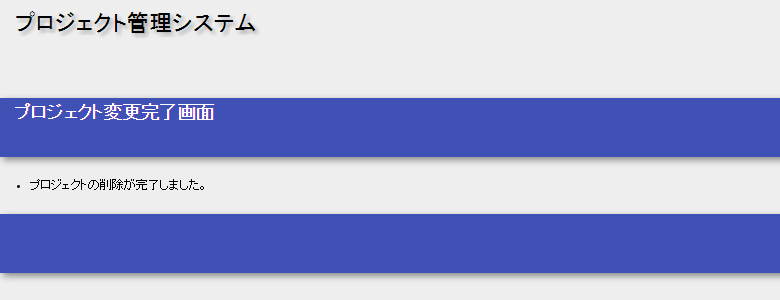
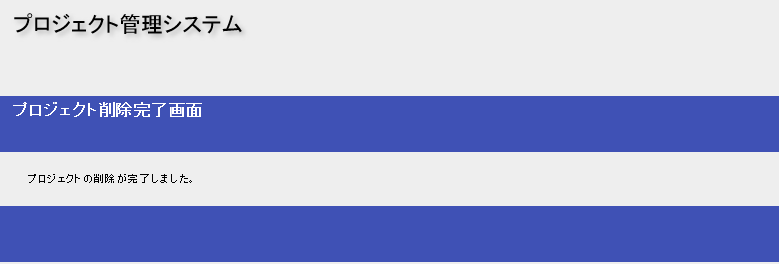
完了メッセージの表示方法の変更に伴い、GettingStarted修正
NAB-142

diff --git a/application_framework/application_framework/web/getting_started/project_update/index.rst b/application_framework/application_framework/web/getting_started/project_update/index.rst
@@ -318,37 +318,21 @@ Exampleアプリケーションを元に更新機能の解説を行う。
   .. _`project_update-create_complete_action`:
 
   完了画面を表示する業務アクションメソッドの作成
-    更新メソッドのリダイレクト先となる、完了メッセージの追加と完了画面の表示を行う業務アクションメソッドを作成する。
+    更新メソッドのリダイレクト先となる、完了画面の表示を行う業務アクションメソッドを作成する。
 
     ProjectAction.java
       .. code-block:: java
 
         public HttpResponse completeOfUpdate(HttpRequest request, ExecutionContext context) {
-            WebUtil.notifyMessages(context,
-                    MessageUtil.createMessage(MessageLevel.INFO, "success.update.project"));
-            return new HttpResponse("/WEB-INF/view/project/completeOfChange.jsp");
+            return new HttpResponse("/WEB-INF/view/project/completeOfUpdate.jsp");
         }
-
-    メッセージファイルに完了メッセージを追加
-      messages.properties
-        .. code-block:: jproperties
-
-          success.update.project=プロジェクトの更新が完了しました。
-
-  この実装のポイント
-    * メッセージは :ref:`メッセージ管理<message>` を用いてプロパティファイルから読み込む。
-    * 削除完了時と更新完了時に表示する画面は同一なので、出力するメッセージを出し分ける
-      :java:extdoc:`WebUtil#notifyMessages <nablarch.common.web.WebUtil.notifyMessages(nablarch.fw.ExecutionContext, nablarch.core.message.Message...)>` を用いる。
-    * 画面表示時のスタイルを切り替えるために、
-      :java:extdoc:`MessageUtil#createMessage <nablarch.core.message.MessageUtil.createMessage(nablarch.core.message.MessageLevel, java.lang.String, java.lang.Object...)>` を用いて
-      :ref:`メッセージのレベルを使い分ける<message-level>` 。
 
 .. _`project_update-create_success_jsp`:
 
 更新完了画面の作成
-  更新完了メッセージが挿入された完了画面作成する。
+  更新完了画面を作成する。
 
-  /src/main/webapp/WEB-INF/view/project/completeOfChange.jsp
+  /src/main/webapp/WEB-INF/view/project/completeOfUpdate.jsp
     .. code-block:: jsp
 
       <n:form>
@@ -358,14 +342,11 @@ Exampleアプリケーションを元に更新機能の解説を行う。
                 <!-- 省略 -->
               </div>
           </div>
-          <div class="message-area">
-              <n:errors errorCss="message-error" infoCss="message-info"/>
+          <div class="message-area message-info">
+              プロジェクトの更新が完了しました。
           </div>
           <!-- 省略 -->
       </n:form>
-
-  この実装のポイント
-    * メッセージを表示するには :ref:`tag-errors_tag` を使用する。
 
 更新機能の解説は以上。
 

diff --git a/application_framework/application_framework/web/getting_started/project_delete/index.rst b/application_framework/application_framework/web/getting_started/project_delete/index.rst
@@ -70,7 +70,7 @@ Exampleアプリケーションを元に削除機能の解説を行う。
 .. _`project_delete-complete`:
 
 削除完了画面の作成
-  削除完了を通知するメッセージを設定して、完了画面を表示する。
+  削除完了画面を表示する。
   完了画面の作成に関する説明は、 :ref:`完了画面を表示する業務アクションメソッドの作成<project_update-create_complete_action>` 及び
   :ref:`更新完了画面の作成<project_update-create_success_jsp>` を参照。
 
